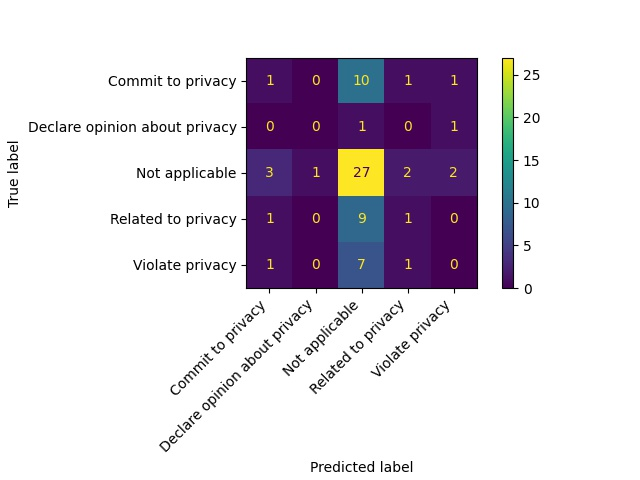
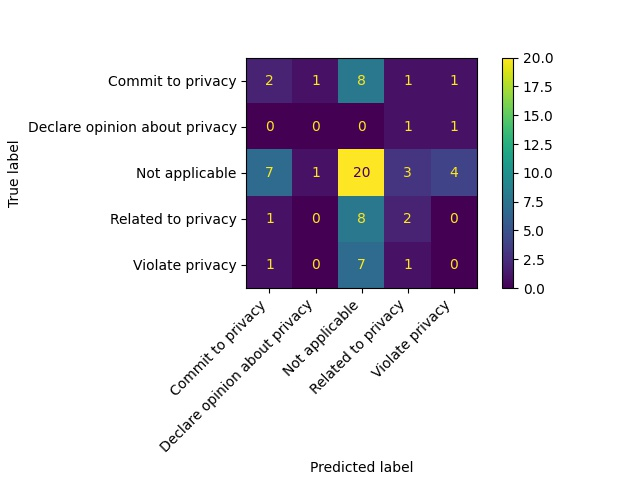
ridge regression classifier, weird results, unk < 2

diff --git a/AIclassifier.py b/AIclassifier.py
@@ -56,51 +56,33 @@ def create_vectors_list(sents, conversion_dict):
         sent_doc = clean_corpus(sent) 
         sent_doc = nlp(sent_doc)
         sent_doc = reconstruct_hyphenated_words(sent_doc)
-        #sent_doc = [token.text for token in sent_doc if not token.is_space if not token.is_punct] # if not token.text in stopwords.words()]
-        sent_doc = [token.text for token in sent_doc if not token.is_space if not token.is_punct]
+        sent_doc = [token.text for token in sent_doc if not token.is_space if not token.is_punct] # if not token.text in stopwords.words()]
         sent_bigram = []
         for i in range(0, (len(sent_doc)-1)):
             sent_bigram.append(sent_doc[i].lower()+" "+sent_doc[i+1].lower())
-        #print(sent_bigram)
+        print(sent_bigram)
         sent_tokens_list = []
         sent_bigrams_list = []
         sent_vector = []
-        #print(sent_doc)
-        #print(sent_bigram)
         for token in sent_doc:  
             if token.lower() not in conversion_dict: 
-                #sent_tokens_list.append("unk")
-                #unk_count += 1
-                pass
+                sent_tokens_list.append("unk")
+                unk_count += 1
+                #pass
             else:
                 print(token)
                 sent_tokens_list.append(token.lower())
-                sent_vector = numpy.append(sent_vector, conversion_dict[sent_tokens_list[-1]]) # remove one tab to go back to considering unk 
+            sent_vector = numpy.append(sent_vector, conversion_dict[sent_tokens_list[-1]]) # outside else to go back to considering unk 
             if len(sent_vector) > 0:
                 sent_vector = sent_vector.astype(int)
-        #print("sent vector token:",sent_vector)
         for bigram in sent_bigram:
             if bigram not in conversion_dict:
-                #sent_bigrams_list.append("unk")
-                #sent_bigrams_list = numpy.append(sent_bigrams_vector, "unk")
                 pass
             else:
                 print(bigram)
                 sent_bigrams_list = numpy.append(sent_bigrams_list, conversion_dict[bigram])
                 sent_bigrams_list = sent_bigrams_list.astype(int)
-                #sent_bigrams_list.append(bigram)
-            #sent_bigrams_vector = numpy.append(sent_bigrams_vector, conversion_dict[sent_bigrams_list[-1]])
-            #if len(sent_bigrams_list) > 0:
-            #    sent_bigrams_list = sent_bigrams_list.astype(int)
-        #print("bigram", sent_bigrams_list)
         vectors_list.append(sent_vector)
-        #print(sent_bigrams_vector)
-        #print(sent_vector)
-        #print(sent_bigram)
-         
-            #element = (sent_tokens_list[i], sent_tokens_list[i+1])
-	        #sent_bigram.append(element) #for bigram in sent_bigram:  
-        #print(sent_bigram)
         sent_bigrams_vector.append(sent_bigrams_list)
         if(len(sent_vector) > 0 and len(sent_bigrams_list) > 0):
             sent_mixed_vector.append(numpy.concatenate([sent_vector,sent_bigrams_list]))
@@ -109,11 +91,11 @@ def create_vectors_list(sents, conversion_dict):
         else:
             sent_mixed_vector.append(sent_bigrams_list)
         
-    #print("Unk count:", unk_count)
-    #return vectors_list
+    print("Unk count:", unk_count)
+    print(vectors_list)
+    return vectors_list
     #return sent_bigrams_vector
-    #print(sent_mixed_vector)
-    return sent_mixed_vector
+    #return sent_mixed_vector
 
 ####
 # MAIN
@@ -171,13 +153,13 @@ with open('aux.txt', 'r') as file:
 #with open('features.txt', 'r') as file:
     features_list = file.read()
 features_list = features_list.split('\n')
-print(features_list)
+#print(features_list)
 
 for mixed in features_list:
     mixed_to_numbers[mixed] = number_representation
     number_representation += 1
 
-print(mixed_to_numbers)
+#print(mixed_to_numbers)
 
 
 #for i in words_to_numbers:
@@ -190,17 +172,17 @@ print("Length of the dictionary of word representations:",len(words_to_numbers))
 # count frequency before and after removing unknown words - ??? - ASK GABRIEL!!
 # checked that it seems ok
 
-#train_vectors_list = create_vectors_list(sents_train, words_to_numbers)
-#dev_vectors_list = create_vectors_list(sents_dev, words_to_numbers)
-#test_vectors_list = create_vectors_list(sents_test, words_to_numbers)
+train_vectors_list = create_vectors_list(sents_train, words_to_numbers)
+dev_vectors_list = create_vectors_list(sents_dev, words_to_numbers)
+test_vectors_list = create_vectors_list(sents_test, words_to_numbers)
 
 #train_vectors_list = create_vectors_list(sents_train, bigrams_to_numbers)
 #dev_vectors_list = create_vectors_list(sents_dev, bigrams_to_numbers)
 #test_vectors_list = create_vectors_list(sents_test, bigrams_to_numbers)
 
-train_vectors_list = create_vectors_list(sents_train, mixed_to_numbers)
-dev_vectors_list = create_vectors_list(sents_dev, mixed_to_numbers)
-test_vectors_list = create_vectors_list(sents_test, mixed_to_numbers)
+#train_vectors_list = create_vectors_list(sents_train, mixed_to_numbers)
+#dev_vectors_list = create_vectors_list(sents_dev, mixed_to_numbers)
+#test_vectors_list = create_vectors_list(sents_test, mixed_to_numbers)
 
 # COUNT STATISTICS - HOW MANY WORDS WERE CONSIDERED UNK, AND HOW MANY OF EACH WORD
 
